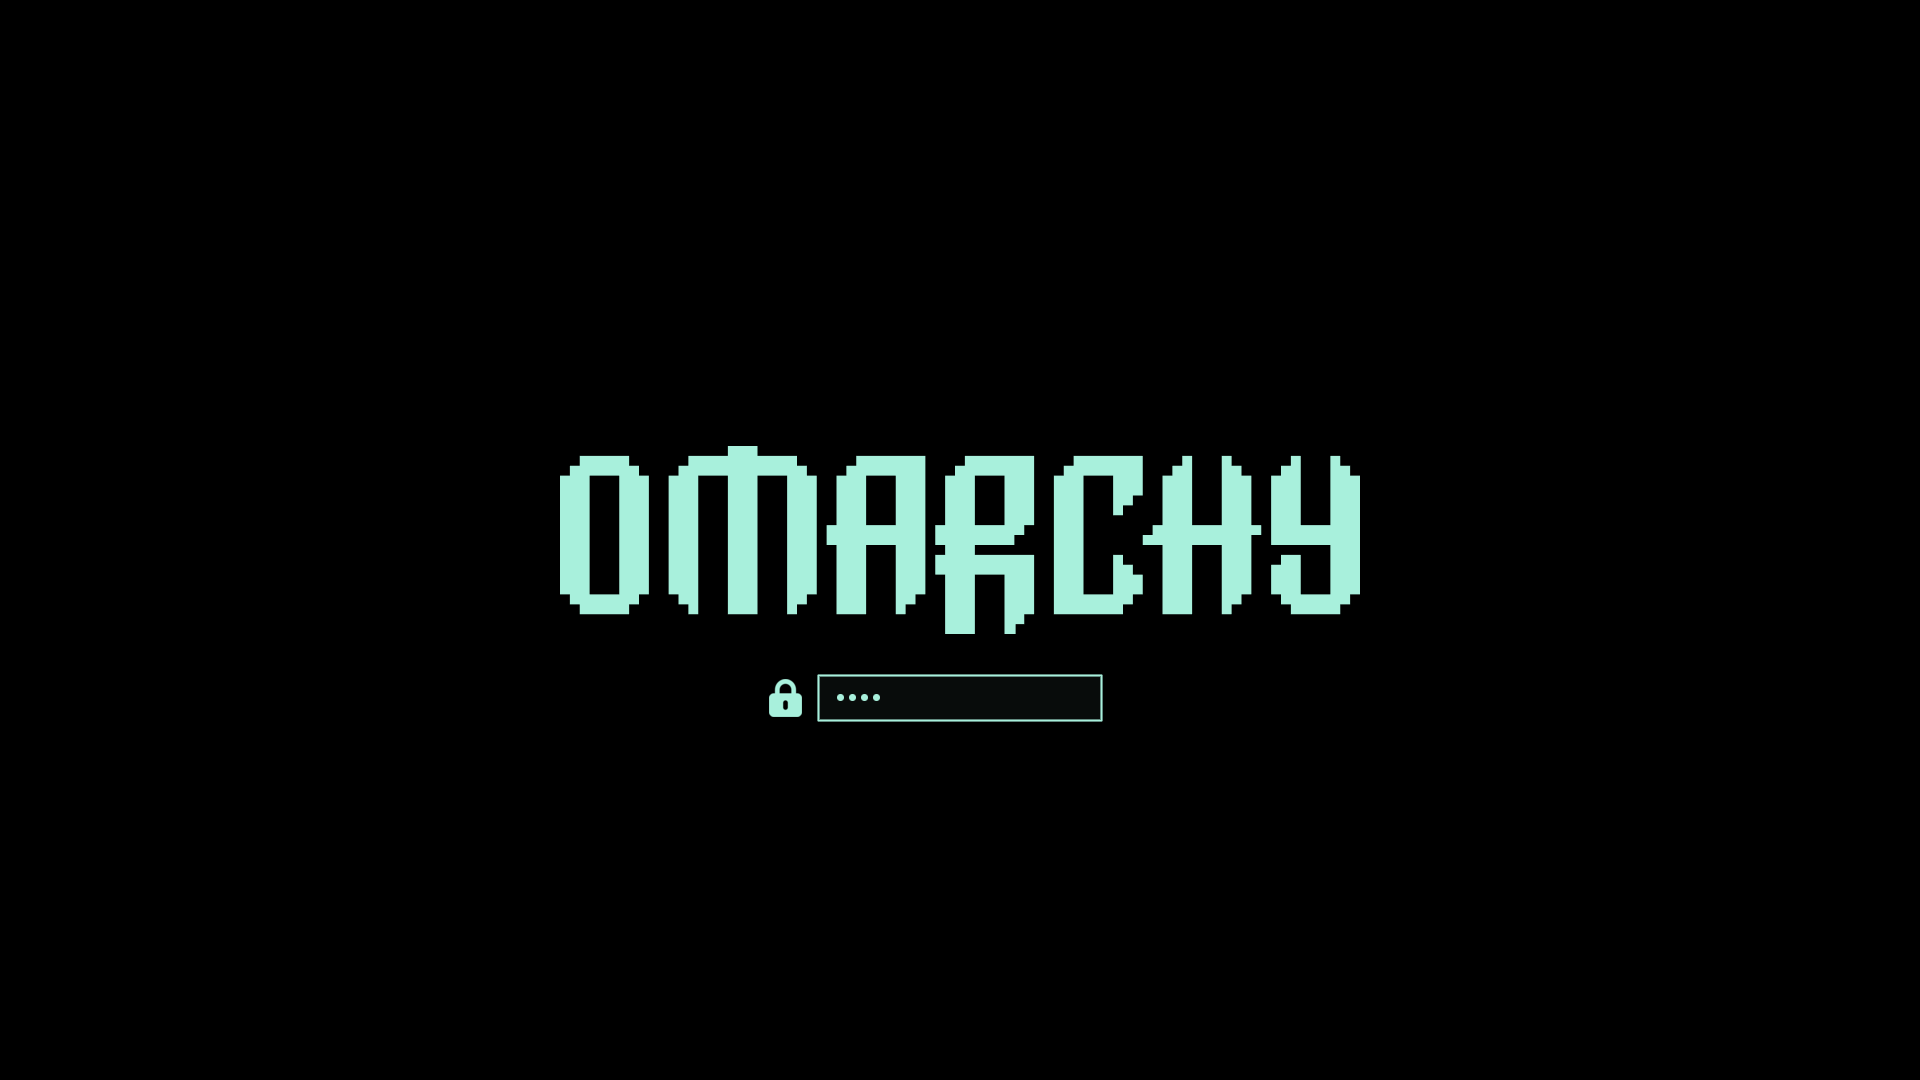
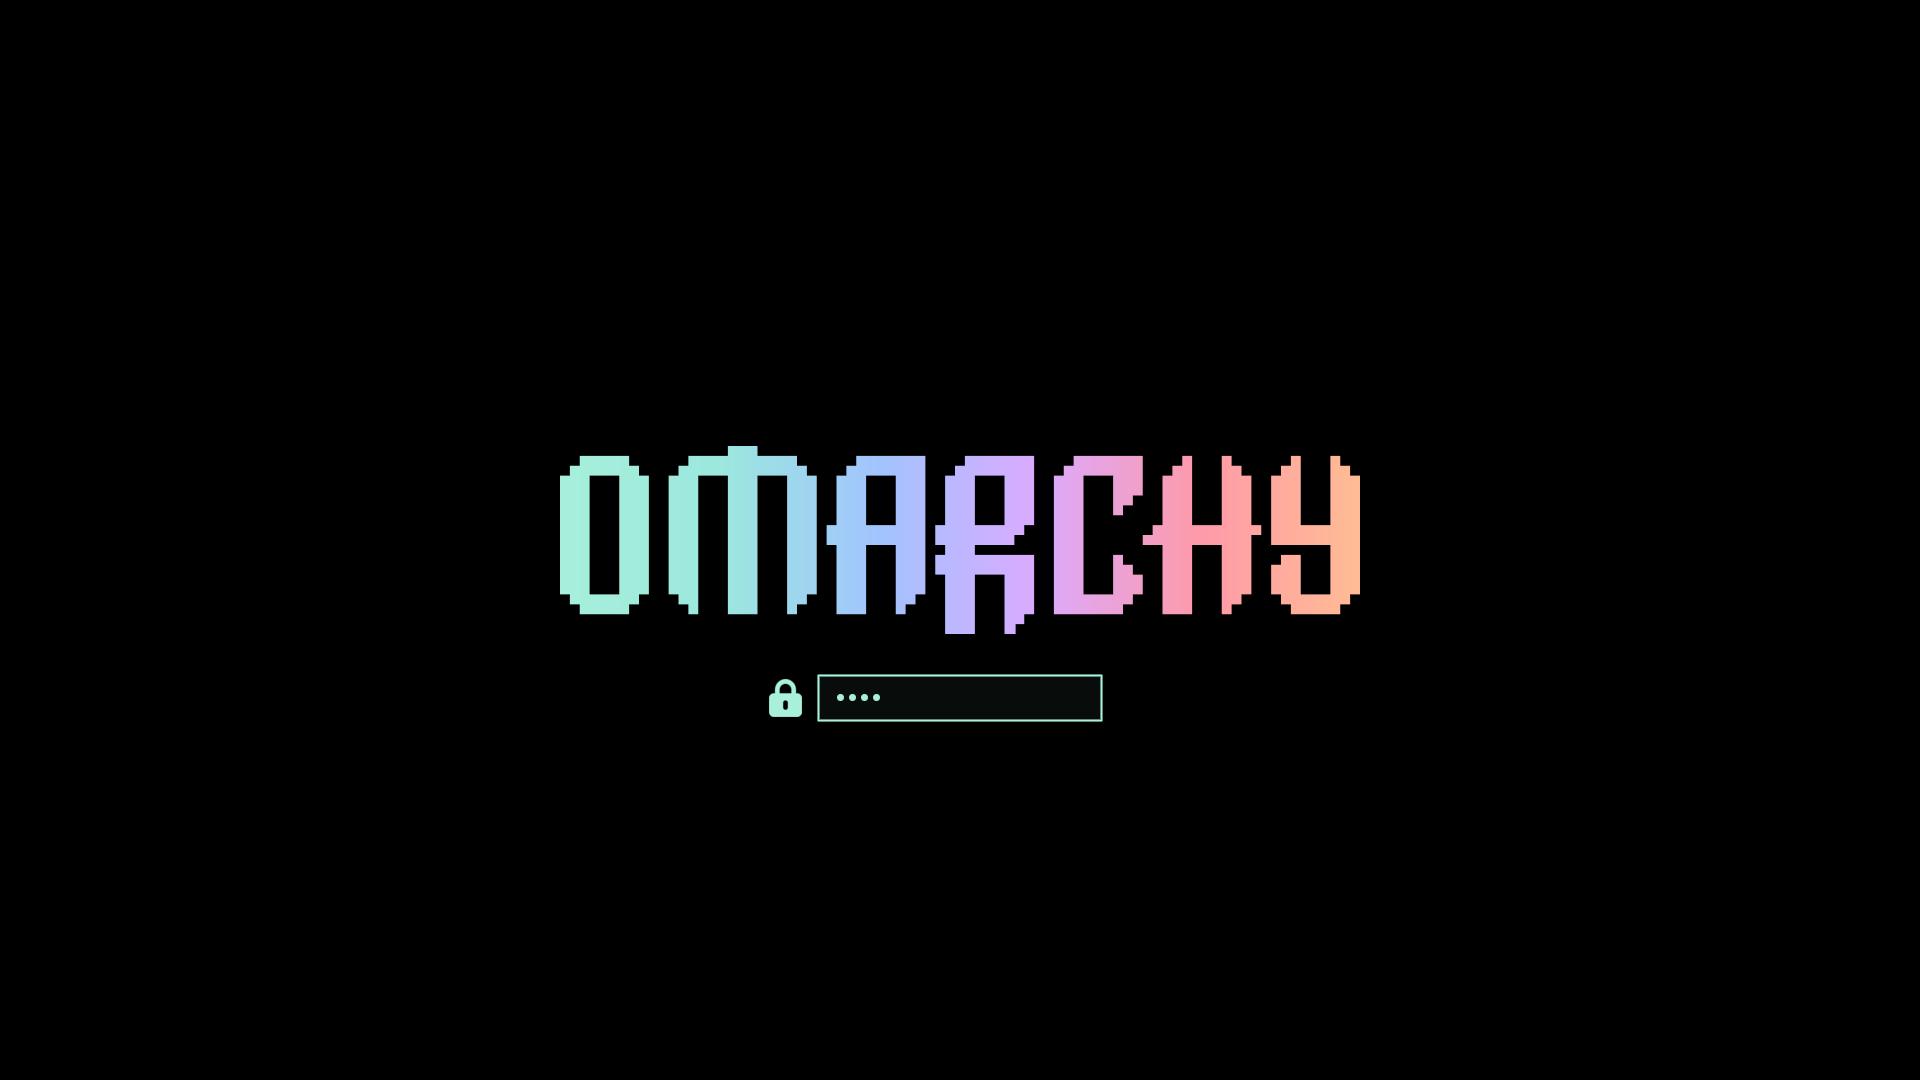
Paint the boot wordmark with the theme's pastel gradient
unlock.png was a flat mint tint. It now carries the same sweep as the
focused-window border — mint, aqua, sky, lilac, rose, peach — so the boot
screen and the desktop read as one system.

tools/make-unlock.py rebuilds it from any stock theme's wordmark, painting
the ramp through the source alpha so glyph shapes and antialiasing survive
pixel-for-pixel; it reproduces the committed file with zero diff.

The entry box, password dots and lock icon stay a single flat mint. That is
a limit of the tooling, not a choice: omarchy-plymouth-set and -preview both
run `+level-colors "#text_hex","#text_hex"` across bullet.png, entry.png and
lock.png, and omarchy.script draws every dot from one bullet.png. The logo is
the only asset passed through untouched. Documented in the README so nobody
files it as a bug.

Changed region(s): [[0.4062, 0.3972, 0.7188, 0.5806]]

diff --git a/tools/make-unlock.py b/tools/make-unlock.py
@@ -1,0 +1,63 @@
+#!/usr/bin/env python3
+"""Rebuild unlock.png: the Omarchy wordmark in the Sorbet Noir pastel gradient.
+
+    python3 tools/make-unlock.py [SOURCE_UNLOCK_PNG] [OUTPUT_PNG]
+
+Takes any stock theme's unlock.png as the shape source, keeps its alpha mask
+pixel-for-pixel, and repaints the glyphs with a left-to-right pastel sweep.
+Defaults read a stock theme and write ./unlock.png.
+
+Requires ImageMagick (`magick`). No Python dependencies.
+
+Afterwards, regenerate the companion preview with Omarchy's own tool:
+
+    omarchy plymouth preview 000000 a8f0dc unlock.png preview-unlock.png
+"""
+import subprocess, sys, os, tempfile
+
+SRC = sys.argv[1] if len(sys.argv) > 1 else "/usr/share/omarchy/themes/catppuccin/unlock.png"
+OUT = sys.argv[2] if len(sys.argv) > 2 else "unlock.png"
+
+def hx(s): return tuple(int(s[i:i+2], 16) for i in (1, 3, 5))
+
+# The same ramp the focused-window border uses, extended through peach.
+STOPS = [hx(c) for c in ("#a8f0dc", "#9ce8de", "#a2c4ff", "#dcaaff", "#ff9aa9", "#ffbd94")]
+
+def ramp(t):
+    t = min(max(t, 0.0), 1.0)
+    n = len(STOPS) - 1
+    i = min(int(t * n), n - 1)
+    f = t * n - i
+    a, b = STOPS[i], STOPS[i + 1]
+    return tuple(int(a[k] + (b[k] - a[k]) * f) for k in range(3))
+
+if not os.path.isfile(SRC):
+    sys.exit(f"source not found: {SRC}")
+
+W, H = map(int, subprocess.run(
+    ["magick", "identify", "-format", "%w %h", SRC],
+    capture_output=True, text=True, check=True).stdout.split())
+
+with tempfile.TemporaryDirectory() as tmp:
+    mask = os.path.join(tmp, "mask.png")
+    plate = os.path.join(tmp, "plate.png")
+    ppm = os.path.join(tmp, "plate.ppm")
+
+    subprocess.run(["magick", SRC, "-alpha", "extract", mask], check=True)
+
+    buf = bytearray(W * H * 3)
+    for y in range(H):
+        row = y * W * 3
+        for x in range(W):
+            c = ramp(x / W)
+            i = row + x * 3
+            buf[i], buf[i + 1], buf[i + 2] = c
+    open(ppm, "wb").write(b"P6\n%d %d\n255\n" % (W, H) + bytes(buf))
+    subprocess.run(["magick", ppm, plate], check=True)
+
+    # Paint the gradient through the wordmark's own alpha, so the glyph shapes
+    # and their antialiasing are preserved exactly.
+    subprocess.run(["magick", plate, mask, "-alpha", "off",
+                    "-compose", "copy_opacity", "-composite", OUT], check=True)
+
+print(f"wrote {OUT}  ({W}x{H})")

diff --git a/README.md b/README.md
@@ -55,7 +55,7 @@ tone that reads fine on a `#1e1e2e` base becomes unreadable on true black.
 | `shell.toml` | bar, launcher, menus, notifications, tooltips, polkit, lock screen |
 | `icons.theme` | Yaru-sage-dark |
 | `keyboard.rgb` | mint, for supported RGB keyboards |
-| `unlock.png` | mint Omarchy wordmark for the Plymouth boot/unlock screen |
+| `unlock.png` | Omarchy wordmark in the pastel gradient, for the Plymouth boot/unlock screen |
 | `preview-unlock.png` | preview of that unlock screen |
 | `backgrounds/` | four generated AMOLED backgrounds |
 | `preview.png` | marketplace/README preview |
@@ -175,8 +175,9 @@ Cycle backgrounds with `omarchy theme bg next`.
 
 ## Boot & unlock screen
 
-`unlock.png` is the Omarchy wordmark tinted to the mint accent, which puts this
-theme in `omarchy plymouth list`:
+`unlock.png` carries the Omarchy wordmark painted with the same pastel sweep as
+the focused-window border — mint → aqua → sky → lilac → rose → peach — which
+puts this theme in `omarchy plymouth list`:
 
 ```bash
 omarchy plymouth set by theme sorbet-noir   # apply
@@ -184,6 +185,22 @@ omarchy plymouth reset                      # back to the Omarchy default
 ```
 
 ![Unlock screen](preview-unlock.png)
+
+Rebuild the wordmark at any time (it repaints a stock theme's wordmark, keeping
+the glyph alpha pixel-for-pixel):
+
+```bash
+python3 tools/make-unlock.py
+omarchy plymouth preview 000000 a8f0dc unlock.png preview-unlock.png
+```
+
+**Why only the wordmark is multicoloured.** `omarchy plymouth set` and
+`omarchy plymouth preview` both run `+level-colors` over `bullet.png`,
+`entry.png` and `lock.png`, flattening each to the single `text-hex` you pass
+them, and `omarchy.script` reuses one `bullet.png` for every password dot. So
+the entry border and dots can only ever be one flat colour — mint here. The
+logo is the one asset that passes through untouched, which is why it carries
+the gradient.
 
 ## License
 
